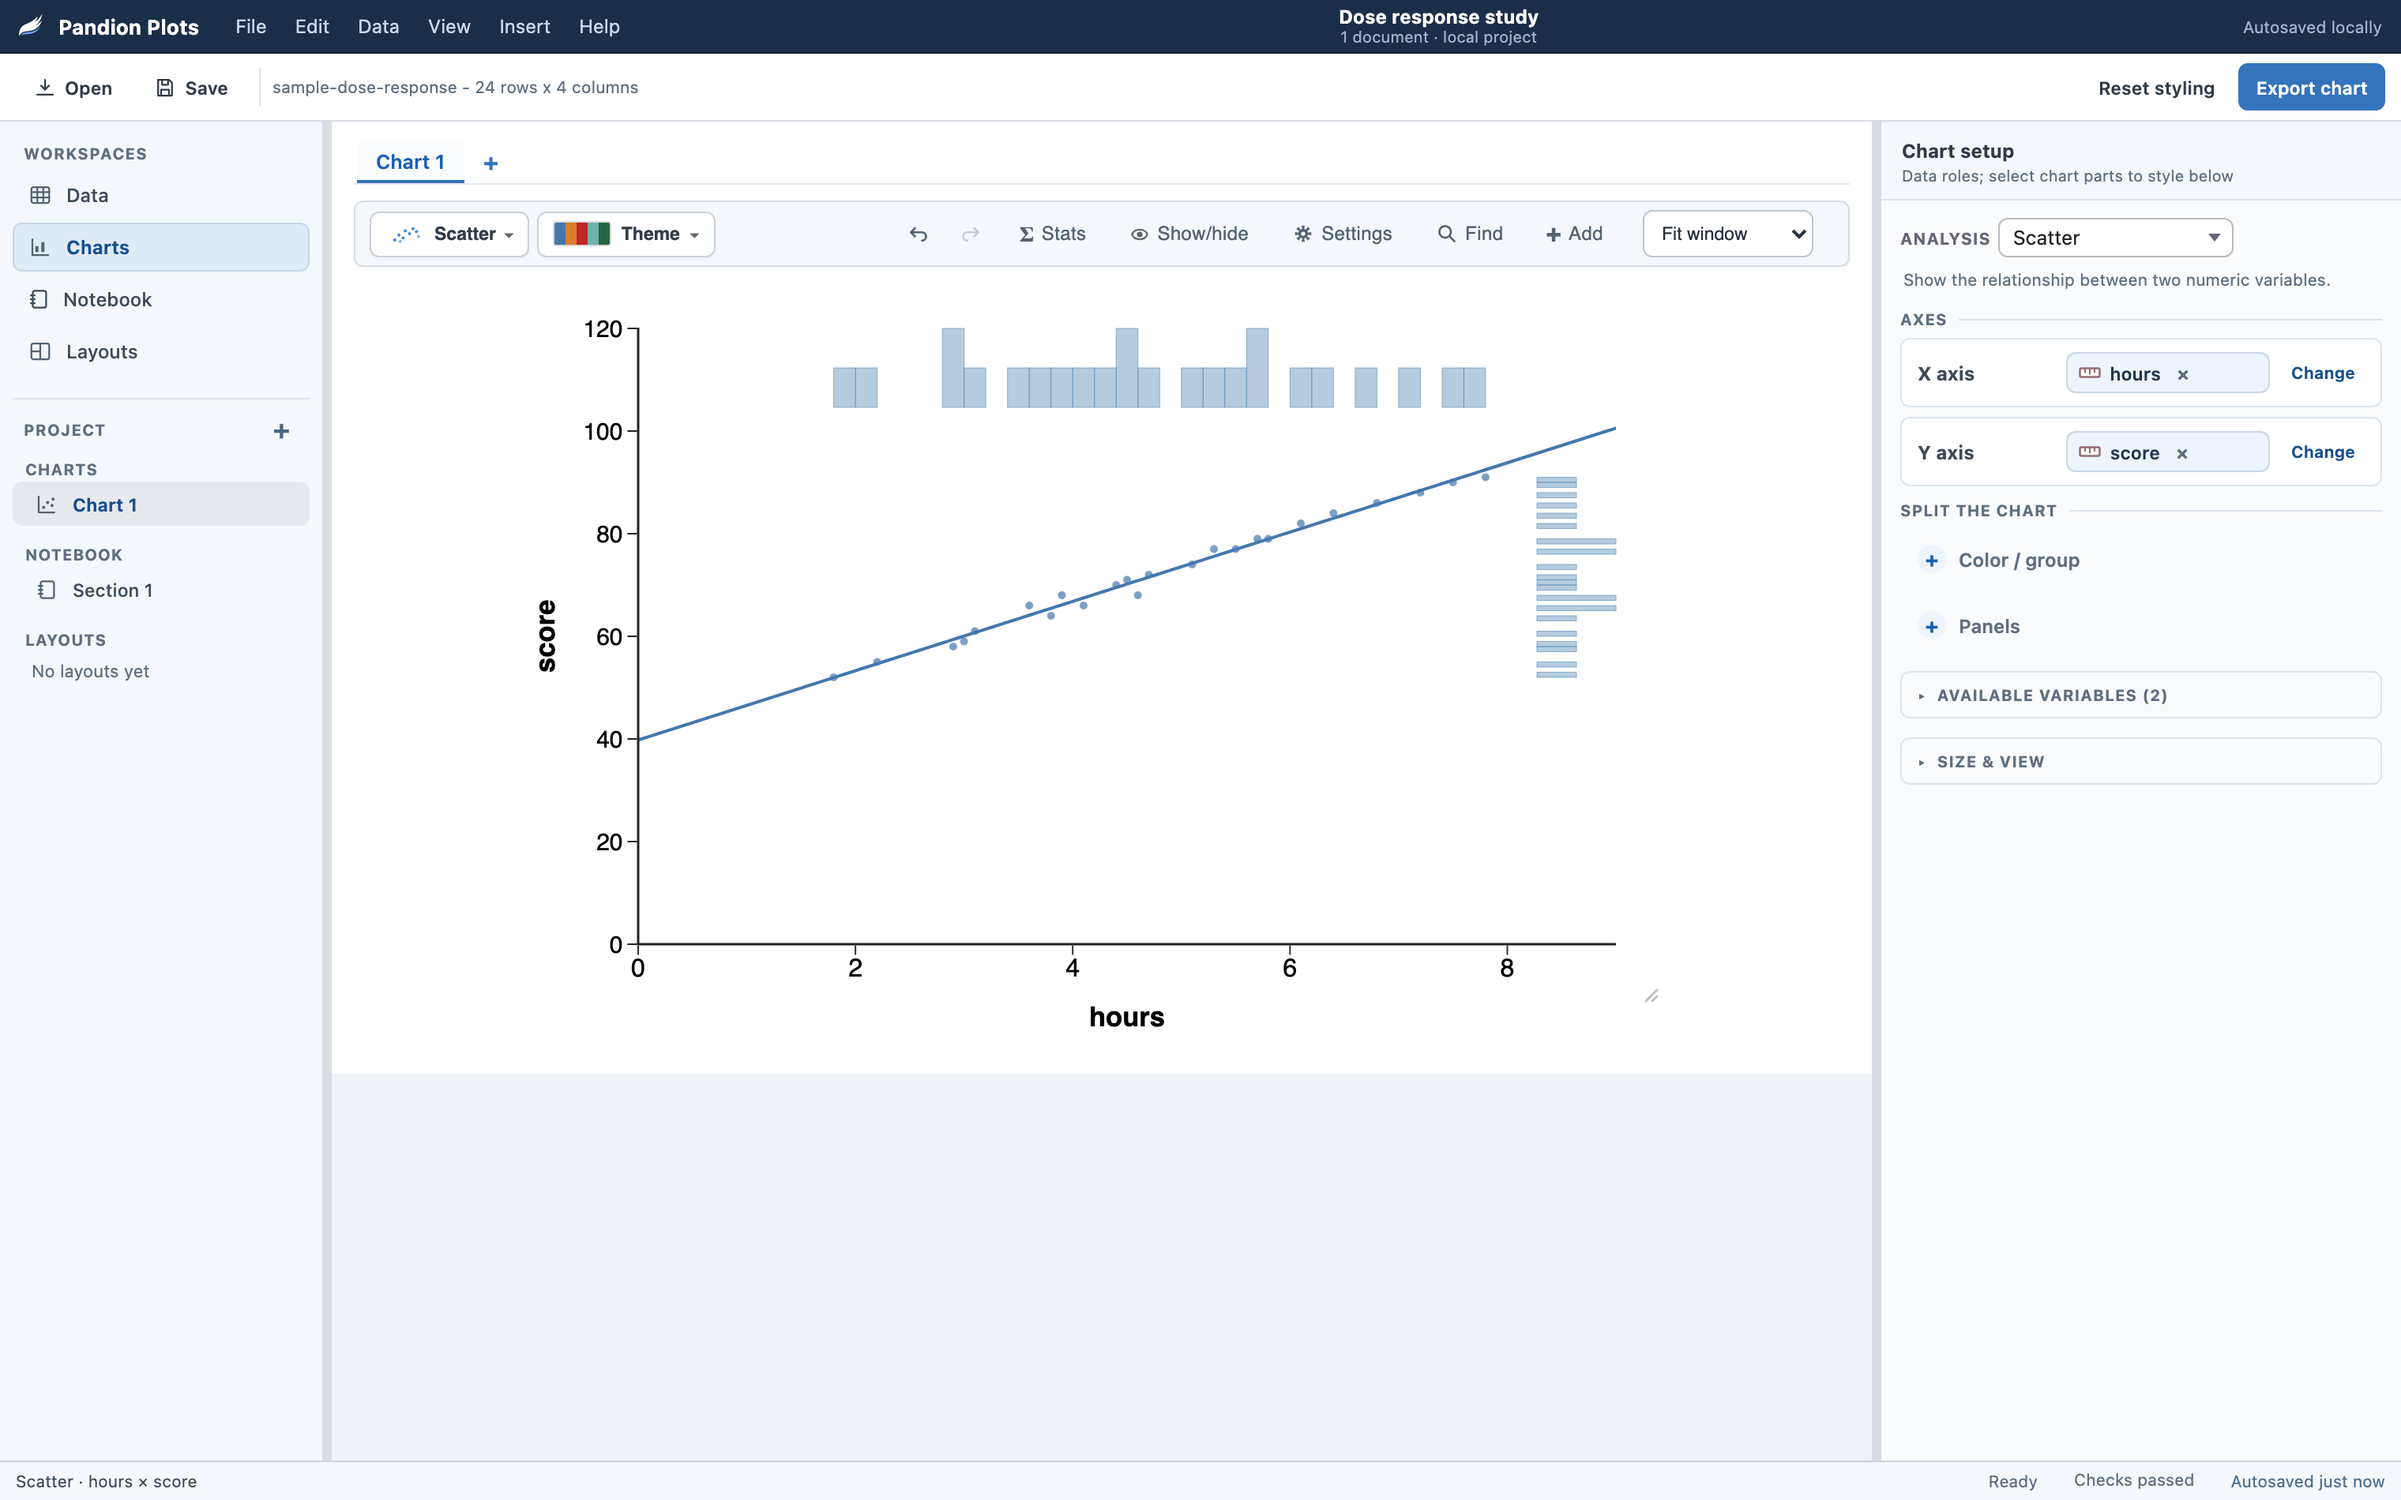
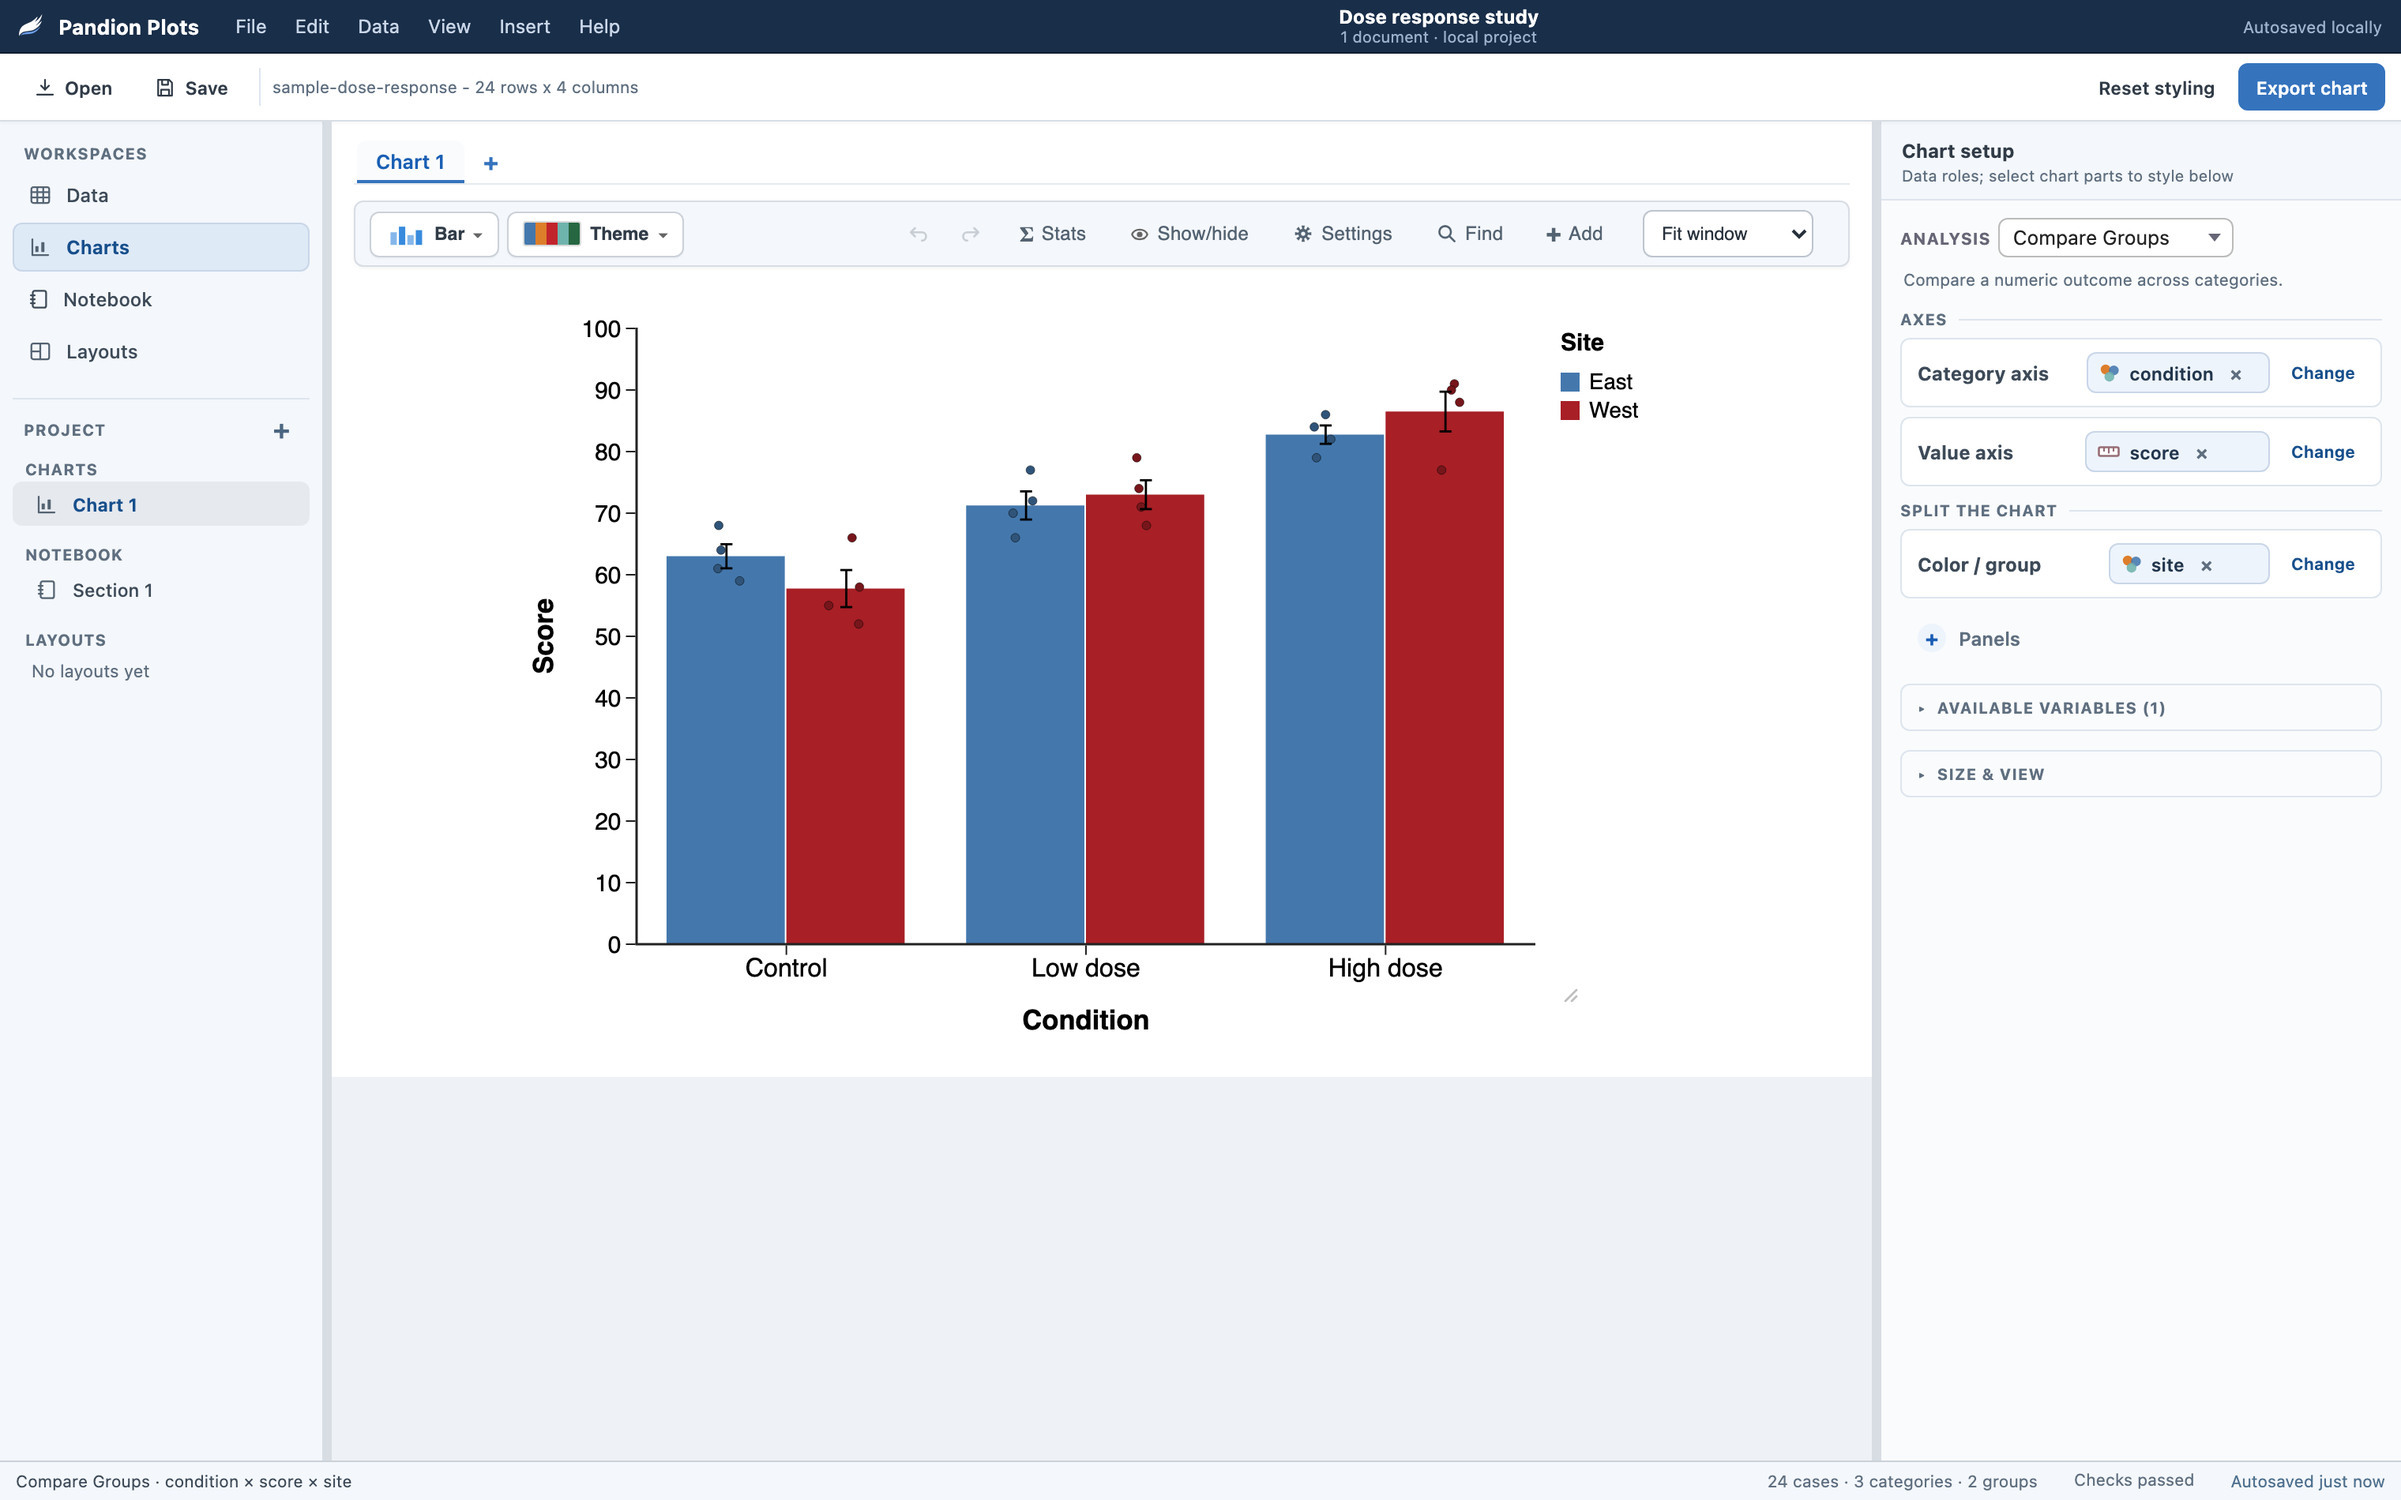
Website: lead with a grouped bar and the observations on top
The landing page led with a scatter and marginal histograms. At the size
the page renders it, the marginals read as clutter, and a one-colour
scatter showed neither grouping nor the error bars and raw points that
are the reason to reach for this over a spreadsheet.

The replacement is score by condition and site: two colours from the
house palette, error bars, and every observation drawn on its own bar in
a darker shade of that bar's colour, so a dot still reads as belonging
to its group. The value axis is capped at 100 with ticks every 10, which
puts the top of the range just above the data. The tallest observation
is 91, so nothing is clipped, and the shot asserts that the app's own
Check graph still passes rather than trusting the eye.

Two things cost real time here, so shots.mjs now records both. Each axis
range field is gated by its own override flag, so yInterval on its own is
stored and ignored, which is why the ticks stayed at 20 through a
regeneration that looked correct in every other respect. And at the
palette red the app raises "Colors that merge in black and white",
because #c2242c and #4478ad sit about 12 apart in grayscale; one step
darker clears it, so the status chip reads "Checks passed" honestly
instead of by hiding a note.

This retires one line of reasoning from the previous commit: the gallery
scatter lost its marginals caption partly because the hero still showed
marginals, and now nothing on the site does. No page claims them, so
[…]

diff --git a/website/index.html b/website/index.html
@@ -344,15 +344,16 @@
           <div class="shot-bar" aria-hidden="true"><i></i><i></i><i></i></div>
           <img src="assets/app-chart.png"
                data-image-kind="illustrative"
-               alt="The Pandion Plots chart workspace: a scatterplot with a
-                    fit line and marginal histograms, beside a chart setup
-                    panel listing the variables and their analysis roles">
+               alt="The Pandion Plots chart workspace: a grouped bar chart of
+                    score by condition and site, with error bars and every
+                    observation drawn on top, beside a chart setup panel
+                    listing the variables and their analysis roles">
         </div>
         <figcaption>
-          A scatterplot with a fit line and marginal distributions, created
-          from the built-in sample data in a few clicks. Each chart is its
-          own document, and related charts collect into named groups in the
-          left rail.
+          A grouped bar chart with error bars and every observation drawn
+          on top, created from the built-in sample data in a few clicks.
+          Each chart is its own document, and related charts collect into
+          named groups in the left rail.
         </figcaption>
       </figure>
     </div>

diff --git a/website/v2.html b/website/v2.html
@@ -248,11 +248,11 @@
         <div class="shot-frame">
           <div class="shot-bar" aria-hidden="true"><i></i><i></i><i></i></div>
           <img src="assets/app-chart.png"
-               alt="The Pandion Plots chart workspace: a scatterplot with a fit line and marginal histograms, beside a chart setup panel listing the variables and their analysis roles">
+               alt="The Pandion Plots chart workspace: a grouped bar chart of score by condition and site, with error bars and every observation drawn on top, beside a chart setup panel listing the variables and their analysis roles">
         </div>
         <figcaption>
-          A scatter with marginal distributions, built from the sample
-          dataset in a few clicks.
+          A grouped bar with error bars and every observation shown,
+          built from the sample dataset in a few clicks.
         </figcaption>
       </figure>
     </div>

diff --git a/website/v3.html b/website/v3.html
@@ -248,11 +248,11 @@
       <figure>
         <div class="shot-frame">
           <img src="assets/app-chart.png"
-               alt="The Pandion Plots chart workspace: a scatterplot with a fit line and marginal histograms, beside a chart setup panel listing the variables and their analysis roles">
+               alt="The Pandion Plots chart workspace: a grouped bar chart of score by condition and site, with error bars and every observation drawn on top, beside a chart setup panel listing the variables and their analysis roles">
         </div>
         <figcaption>
-          Figure 1. A scatter with marginal distributions, built from
-          the sample dataset in a few clicks.
+          Figure 1. A grouped bar with error bars and every observation
+          shown, built from the sample dataset in a few clicks.
         </figcaption>
       </figure>
     </div>

diff --git a/website/build-preview.py b/website/build-preview.py
@@ -21,11 +21,15 @@ MIME = {'.svg': 'image/svg+xml', '.png': 'image/png',
         '.jpg': 'image/jpeg', '.jpeg': 'image/jpeg'}
 
 PAGES = [
-    ('index',   'index.html',   'Home'),
-    ('gallery', 'gallery.html', 'Gallery'),
-    ('about',   'about.html',   'About'),
-    ('v2',      'v2.html',      'Landing: dark'),
-    ('v3',      'v3.html',      'Landing: editorial'),
+    ('index',    'index.html',         'Home'),
+    ('download', 'download.html',      'Downloads'),
+    ('gallery',  'gallery.html',       'Gallery'),
+    ('about',    'about.html',         'About'),
+    ('support',  'support.html',       'Support'),
+    ('a11y',     'accessibility.html', 'Accessibility'),
+    ('notfound', '404.html',           'Not found'),
+    ('v2',       'v2.html',            'Landing: dark'),
+    ('v3',       'v3.html',            'Landing: editorial'),
 ]
 
 _asset_cache = {}
@@ -98,6 +102,19 @@ INJECT = """
 
 def prepare(html):
     """Inline assets, reroute internal links, keep external links usable."""
+    # The shared nav arrived as an external stylesheet and script. Fold their
+    # TEXT in rather than data-URI them, so the preview needs no network and
+    # no same-origin fetch.
+    def sub_css(m):
+        return '<style>\n' + (ROOT / m.group(1)).read_text(encoding='utf-8') + '\n</style>'
+    html = re.sub(r'<link rel="stylesheet" href="(assets/[^"]+\.css)">',
+                  sub_css, html)
+
+    def sub_js(m):
+        return '<script>\n' + (ROOT / m.group(1)).read_text(encoding='utf-8') + '\n</script>'
+    html = re.sub(r'<script src="(assets/[^"]+\.js)"[^>]*></script>',
+                  sub_js, html)
+
     # assets -> data URIs (src= and href=, e.g. the favicon link)
     def sub_asset(m):
         return '%s="%s"' % (m.group(1), data_uri(m.group(2)))
